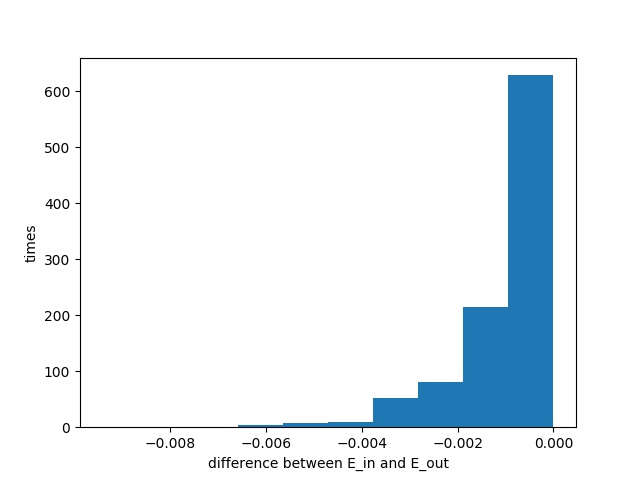
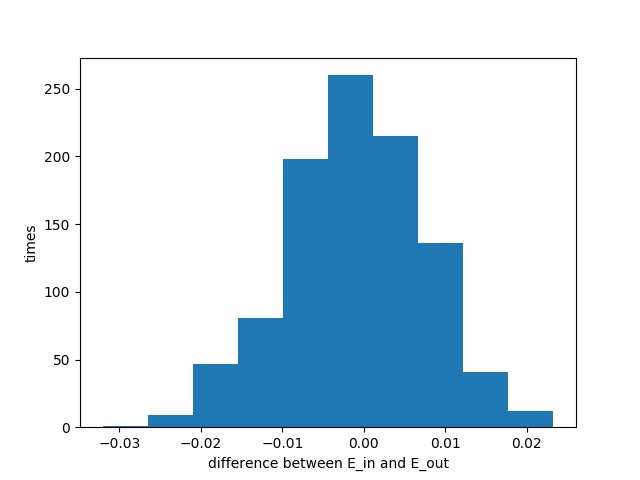
ver 2

diff --git a/Hw2/decision_stump.py b/Hw2/decision_stump.py
@@ -22,10 +22,18 @@ def generate_x(data_num=2000):
 
 # problem 6 (b) flips 20% of results
 def f(x):
-    length = x.shape
+    """length = x.shape
     noise = np.ones(length)
     noise[:int(length[0]/5)] *= -1    
-    np.random.shuffle(noise)
+    np.random.shuffle(noise)"""
+    noise = np.random.rand(x.shape[0])
+    #print("========noise=========")
+    
+    #print(noise)
+    noise = noise<0.2
+    noise = noise * -2 +1
+    #print("========noise=========")
+    
     #print(noise)
     return noise * sign(x)
 def error_out(s,theta):
